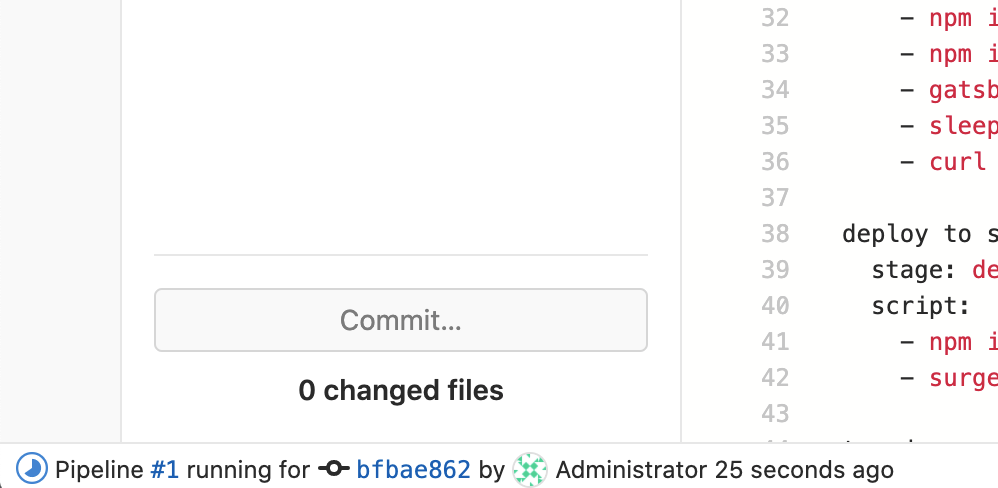
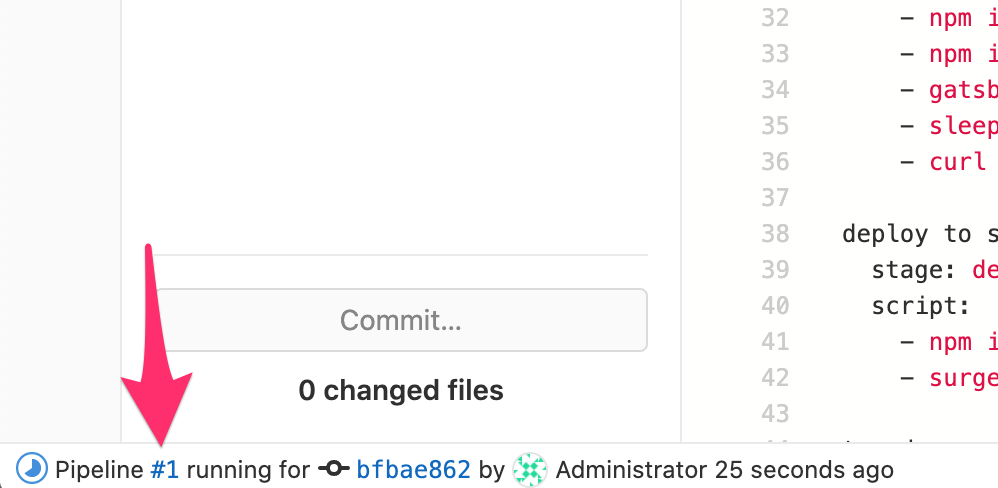
update

diff --git a/content/Lab4/configuration.md b/content/Lab4/configuration.md
@@ -65,9 +65,11 @@ teardown surge:
   stage: teardown
   script:
     - npm install --global surge
-    - surge teardown gitlab-ws.surge.sh
+    - surge teardown <unique-name>.surge.sh
   when: manual
 {{< /highlight >}}
+
+Replace **unique-name** with a unique string, see the warning below.
 
 {{% notice warning %}}
 The script **surge --project ./public --domain <unique-name>.surge.sh** creates a unique domain in Surge. You need to make sure you modify the **unique-name** with a unique string so that the domain is available. For instance, if you modify **unique-name** with johnsmith, try to open **http://johnsmith.surge.sh** in the browser. If you get message **project not found** you can use it, if not try to find another string.
@@ -77,11 +79,11 @@ Once you have a unique domain, replace it in the appropriate place in **deploy t
 Commit the change, click Commit.
 ![commit-1](/images/commit-1.png)
 
-Add a commit message.
+ - Add a commit message.
 
-Change the default commit option to Commit to master.
+ - Change the default commit option to Commit to master.
 
-Click Commit.
+ - Click Commit.
 ![commit-2](/images/commit-2.png)
 
 Wait a few seconds until you will see in the status bar, below the commit button, the pipeline ID, click on it in order to open the pipeline.
@@ -89,15 +91,20 @@ Wait a few seconds until you will see in the status bar, below the commit button
 
 This will open the Pipeline graph
 ![commit-4](/images/commit-4.png)
-You can click on each job to check it log. wait until the **deploy to surge** job completes, when it has a green icon.
+You can click on each job to check it log. wait until the **deploy to surge** job completes, when it has a green **V** icon.
 
 Make sure all jobs passed successfully, and that pipeline status is **passed**.
-
+![pipeline-5](/images/pipeline-5.png)
 Open in the browser the domain you earlier defined in the **deploy** job, and see your deployed website.
 
-**Cleanup** Teardown the domain. In order to be able to run the deploy job again, (you will need to run it in the next lab), you will need to tear down the domain. Open to the pipeline, and manually run the teardown job.
+## Cleanup
+
+**Teardown the domain** In order to be able to run the deploy job again, (you will need to run it in the next lab). Open the pipeline, and manually run the teardown job.
 
   - From the project overview, open CI/CD->Pipelines on the left menu.
+  ![pipeline-1](/images/pipeline-1.png)
   - Open the pipeline by clicking on the status column.
+  ![pipeline-6](/images/pipeline-6.png)
   - Click the **play** icon near the **teardown surge** job.
+  ![pipeline-7](/images/pipeline-7.png)
   - Wait until the job completes, make sure it completed successfully.

diff --git a/content/lab5/_index.md b/content/lab5/_index.md
@@ -5,3 +5,28 @@ weight: 0
 ---
 
 # Modifying code
+
+Now that we have a project configured with CI/CD that build, test and deploy the app, we can make a change to the website, test, and deploy it
+
+From the project overview page, open the Web IDE.
+![yml-1](/images/yml-1.png)
+
+From the left pane, open the file **index.js** under **/src/pages**
+![code-1](/images/code-1.png)
+Modify the code, replace the text **Now go build something great** with
+`With GitLab you can iterate faster, innovate together: Our open DevOps platform is a single application for unparalleled collaboration, visibility, and development velocity.`
+
+![code-2](/images/code-2.png)
+Commit the change, click Commit.
+
+ - Add a commit message.
+
+ - Change the default commit option to Commit to master.
+
+ - Click Commit.
+
+Wait for the pipeline to complete.
+
+:white_check_mark: Well done! You manages to run through a full development flow with GitLab CI/CD!
+
+Check the website to see your change deployed.

diff --git a/content/Lab1/_index.md b/content/Lab1/_index.md
@@ -37,5 +37,5 @@ The provisioning takes a few minutes. Please wait before you start the next step
 ![aws-11](/images/aws-11.png)
 - You are now should be able to access GitLab login page. username is **root**, password is your **instance ID**, click **Sign in**.
 ![aws-13](/images/aws-13.png)
-- Congratulations! you managed to start GitLab instance and sign in to it.
+  :white_check_mark: Congratulations! you managed to start GitLab instance and sign in to it.
 ![aws-14](/images/aws-14.png)

diff --git a/content/Lab2/import_project.md b/content/Lab2/import_project.md
@@ -18,4 +18,4 @@ weight: 5
 ![lab2-5](/images/lab2-5.png)
 - The import takes a few seconds.
 ![lab2-6](/images/lab2-6.png)
-- **Well done! You successfully created project in your GitLab instance.**
+:white_check_mark: **Well done! You successfully created project in your GitLab instance.**

diff --git a/content/Lab2/runner.md b/content/Lab2/runner.md
@@ -64,4 +64,4 @@ sudo gitlab-runner start`
   ![runner-7.png](/images/runner-8.png)
 
 
-  **Well done!! you installed and registered successfully GitLab Runner.**
+  :white_check_mark:**Well done!! you installed and registered successfully GitLab Runner.**

diff --git a/content/Lab4/_index.md b/content/Lab4/_index.md
@@ -1,7 +1,7 @@
 ---
 title: "LAB4 - CI/CD configuration"
 chapter: true
-weight: 1
+weight: 7
 ---
 
 ## CI/CD configuration
